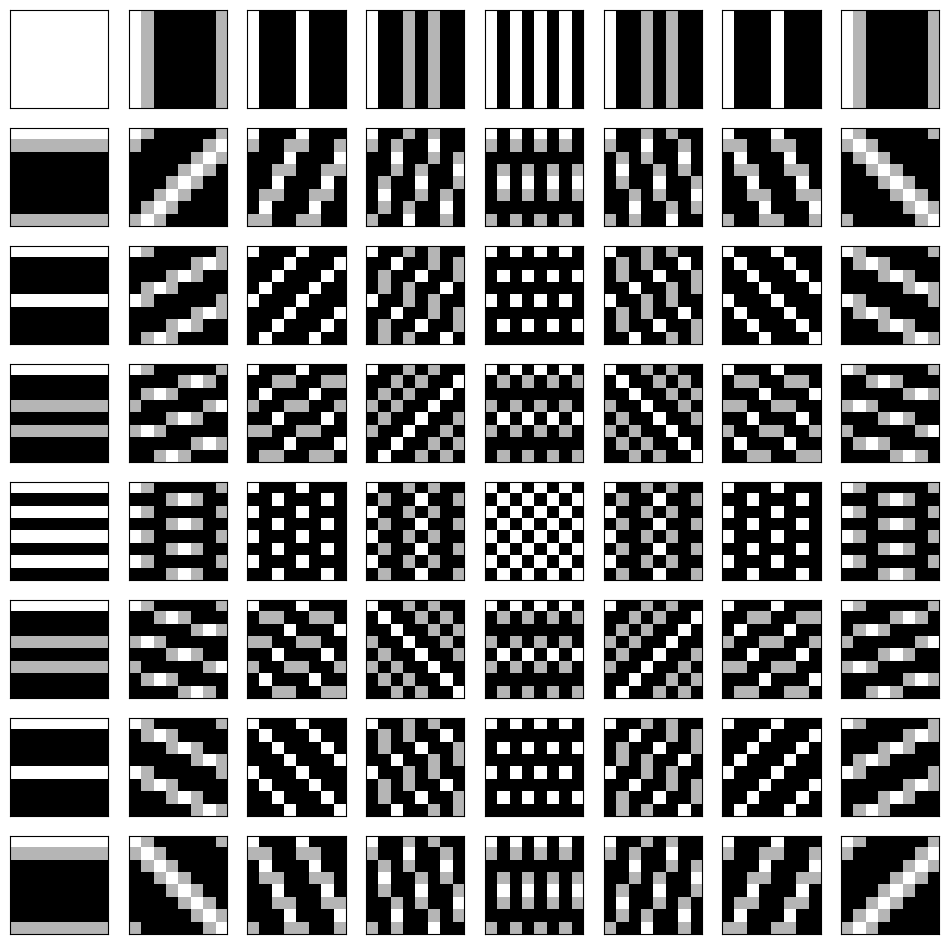
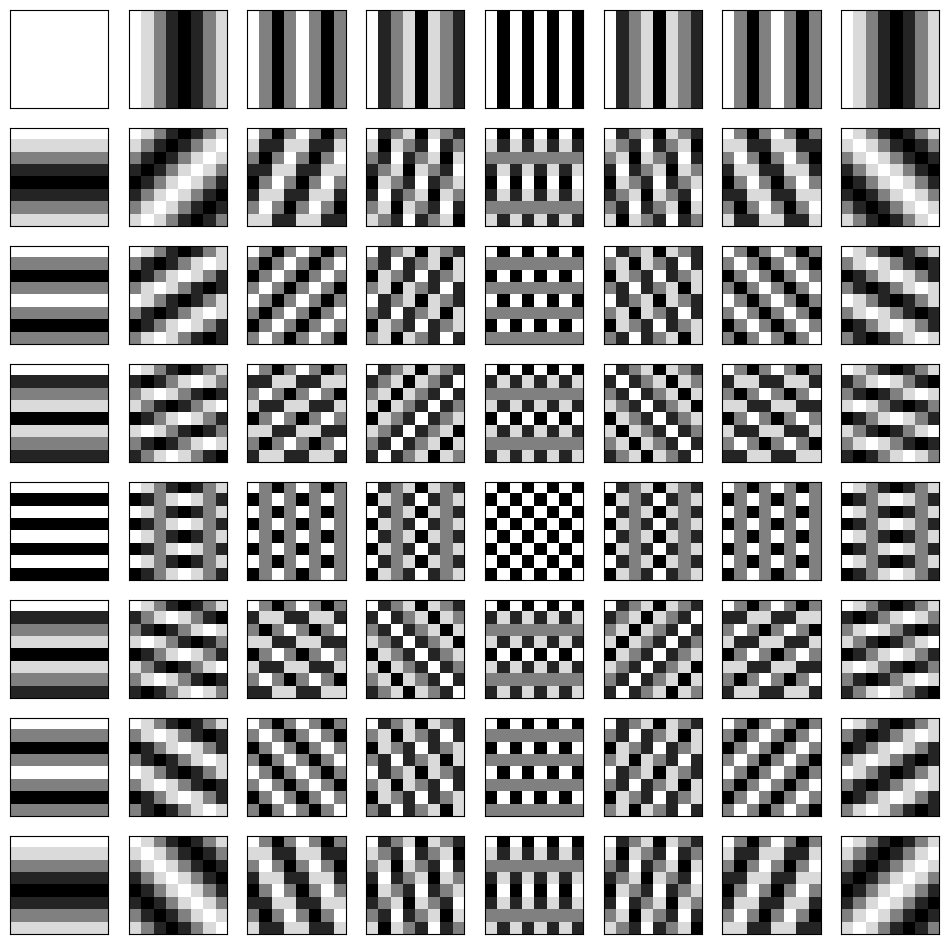
fix basis image lower value in the plots

diff --git a/src/posts/the-fourier-transform.md b/src/posts/the-fourier-transform.md
@@ -232,7 +232,7 @@ def dft_basis_2d(N: int, M: int, u: int, v: int):
     return np.exp(-1.j * 2 * np.pi * (n * u / N + m * v / M), dtype=np.complex128)
 ```
 
-It can be observed that an image of width $M=8$ and height $N=8$ will have $8 \times 8 = 64$ basis images as shown below
+It can be observed that an image of width $M=8$ and height $N=8$ will have $8 \times 8 = 64$ basis images as shown below (only the real part is shown):
 
 ```python
 M, N = 8, 8
@@ -243,7 +243,7 @@ for i in range(M):
         basis_img = np.real(dft_basis_2d(M, N, i, j)).astype(np.float32)
         axes[i][j].set_yticks([])
         axes[i][j].set_xticks([])
-        axes[i][j].imshow(basis_img, cmap="gray", vmin=0., vmax=1.)
+        axes[i][j].imshow(basis_img, cmap="gray", vmin=-1., vmax=1.)
 ```
 
 ![8x8 Bases](fourier/bases.png)
